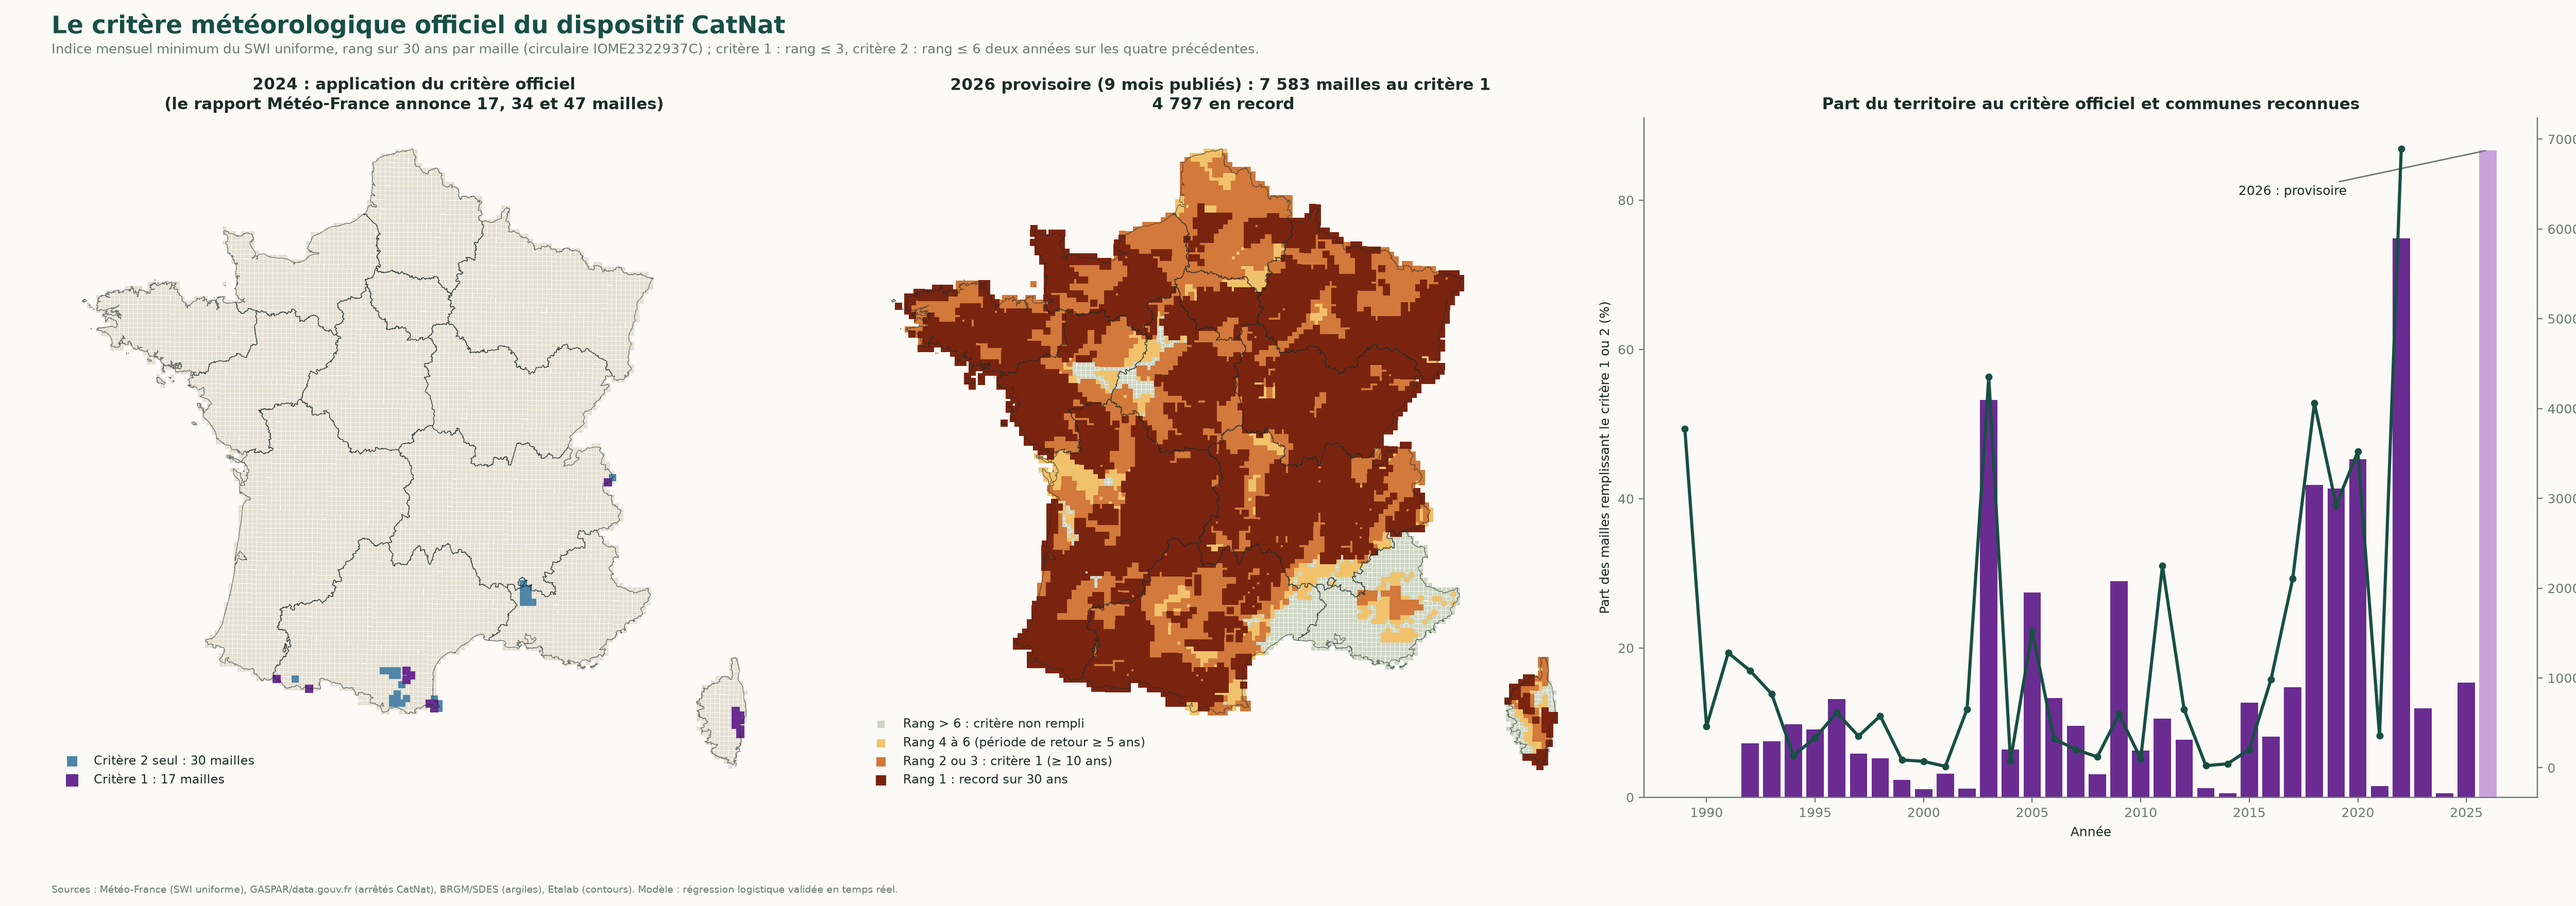
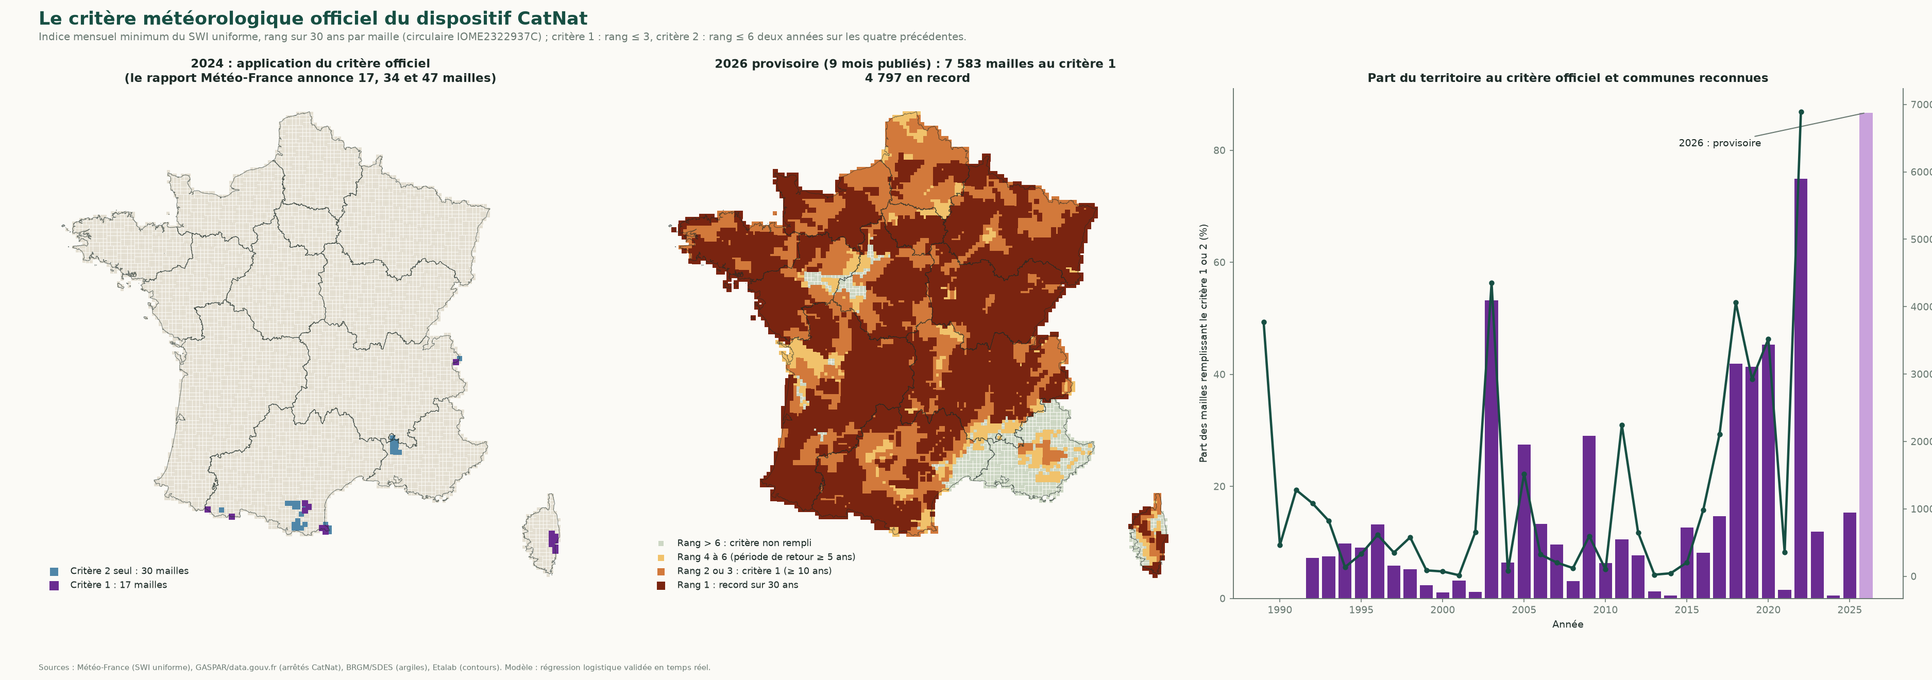
ci et dépôt : actions sur Node 24, cache pip, badge, langage GitHub, figures allégées
- actions/checkout et setup-python en v7 (Node 24), cache pip ; badge de CI dans le README
- .gitattributes : notebooks archivés exclus des statistiques de langage (le dépôt s'affichait en Jupyter Notebook)
- figures détaillées en 150 ppp, RVB sans alpha : 22,5 Mo -> 12,6 Mo, couleurs inchangées (pas de réduction de palette)

diff --git a/pipeline/figures_pro.py b/pipeline/figures_pro.py
@@ -24,8 +24,14 @@ def ctx():
     ete=pd.read_csv(ROOT/'reports/ete_2026_communes.csv',dtype={'insee':str});e=json.loads((ROOT/'reports/ete_2026.json').read_text(encoding='utf-8'))
     return dict(com=com,dep=dep,reg=reg,pred=pred,tab=tab,ete=ete,e=e)
 
+DPI=150   # 3 000 à 3 900 pixels de large : assez pour zoomer, sans alourdir le dépôt (200 ppp donnait 3 à 4,5 Mo par figure)
+
 def save(fig,name):
-    fig.savefig(OUT/f'pro_{name}.png',dpi=200);plt.close(fig);print('écrit',name,flush=True)
+    """PNG en RVB sans canal alpha (fond opaque), compression maximale ; aucune réduction de palette, les couleurs portent la donnée."""
+    import io
+    from PIL import Image
+    buf=io.BytesIO();fig.savefig(buf,format='png',dpi=DPI);plt.close(fig);buf.seek(0)
+    Image.open(buf).convert('RGB').save(OUT/f'pro_{name}.png',optimize=True);print('écrit',name,flush=True)
 
 def fig_france(c):
     com=c['com'];p=c['pred'];g=p.groupby('insee').agg(obs=('y','mean'),mod=('p_glm_complet','mean')).reset_index();d=com.merge(g,left_on='code',right_on='insee',how='left');d['diff']=d.obs-d['mod']

diff --git a/README.md b/README.md
@@ -1,5 +1,7 @@
 # Sécheresse CatNat : SWI uniforme, fréquence de reconnaissance et intervalles d'incertitude
 
+[![Tests](https://github.com/kelian19/ml-climate-risk-catnat/actions/workflows/tests.yml/badge.svg)](https://github.com/kelian19/ml-climate-risk-catnat/actions/workflows/tests.yml)
+
 Projet actuariel sur le péril sécheresse (retrait-gonflement des argiles) du régime CatNat. Il s'appuie sur le **SWI uniforme** de Météo-France, l'indicateur du critère météorologique CatNat, et sur les arrêtés de reconnaissance par commune. Il répond à trois questions :
 
 1. **Prévoir le SWI uniforme** d'été (prévision fin mai) et l'interpoler dans l'espace (variogramme, krigeage).
